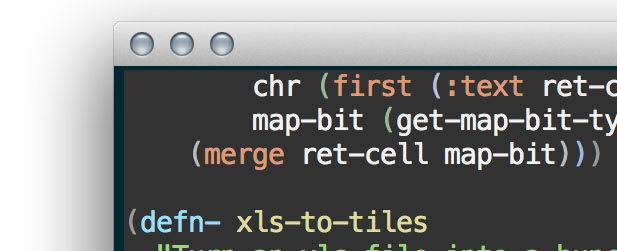
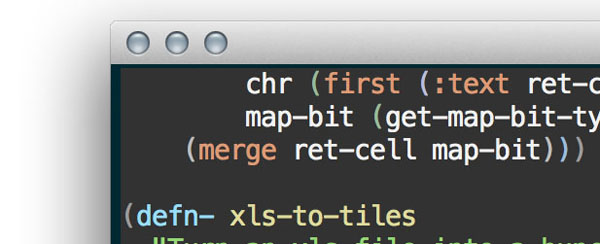
Various changes - Resized pics - Put article header into it's own mixin - Resized video

diff --git a/contents/css/screen-dark.css b/contents/css/screen-dark.css
@@ -50,12 +50,6 @@ iframe { margin-bottom:20px; }
     text-align: center;
 }
 
-span.aut
-{
-    font-size: 0.9em;
-    color: #9e9e9e;
-    padding-top: 3em;
-}
 
 #content .middle img
 {
@@ -70,11 +64,11 @@ span.aut
     padding-top: 1.90em;
 }
 
-#content h1 { color: rgb(186, 196, 165);  font-size:32px;  margin-bottom:0px; margin-top: 20px; }
+#content h1 { color: rgb(186, 196, 165);  font-size:32px;  margin-bottom:0px; }
 #content h2 {  color: rgb(165, 181, 196);  font-size:24px;  margin-bottom:0px; margin-top: 20px; }
 #content h2 a { color: rgb(165, 181, 196); }
 #content h3 { font-size: 24px;  }
-#content img { display:block; max-width:600px; border-radius:5px; border:none; border:1px solid #3d3e3c;}
+#content img { display:block; max-width:600px; border-radius:10px; border:none;}
 #content p {margin: 0px 0px 10px; }
 #content p a { text-decoration:none; }
 #content blockquote p { font-size:11pt; background:#d8d8d8; border-radius:5px; padding:10px; box-shadow: 0 0 8px #aaa; }
@@ -186,6 +180,37 @@ li.L1,li.L3,li.L5,li.L7,li.L9 { }
     height: 24px;
 }
 
+div .header
+{
+    padding-bottom: 0.2em;
+}
+
+
+div.topbit
+{
+    width: 100%;
+}
+
+span.aut
+{
+    font-size: 0.9em;
+    color: #9e9e9e;
+    vertical-align: top;
+}
+
+span.alltags
+{
+    float: right;
+}
+
+.alltags span
+{
+    font-weight: normal;
+    font-color: #c9cecc;
+    font-size: 0.75em;
+    margin-left: 3px;
+    vertical-align: top;
+}
 
 @media print {
   pre.prettyprint { background-color: none }

diff --git a/contents/articles/2015-05-18-video-conversion/index.md b/contents/articles/2015-05-18-video-conversion/index.md
@@ -5,7 +5,7 @@ author: gaz
 tags: blog video ffmpeg tech 
 template: article.jade
 ---
-<video width="568" height="320" controls>
+<video width="600" height="338" controls>
   <source src="/articles/2015-05-18-video-conversion/charlie.mp4" type="video/mp4">
   <source src="/articles/2015-05-18-video-conversion/charlie.webm" type="video/webm">
 </video>
